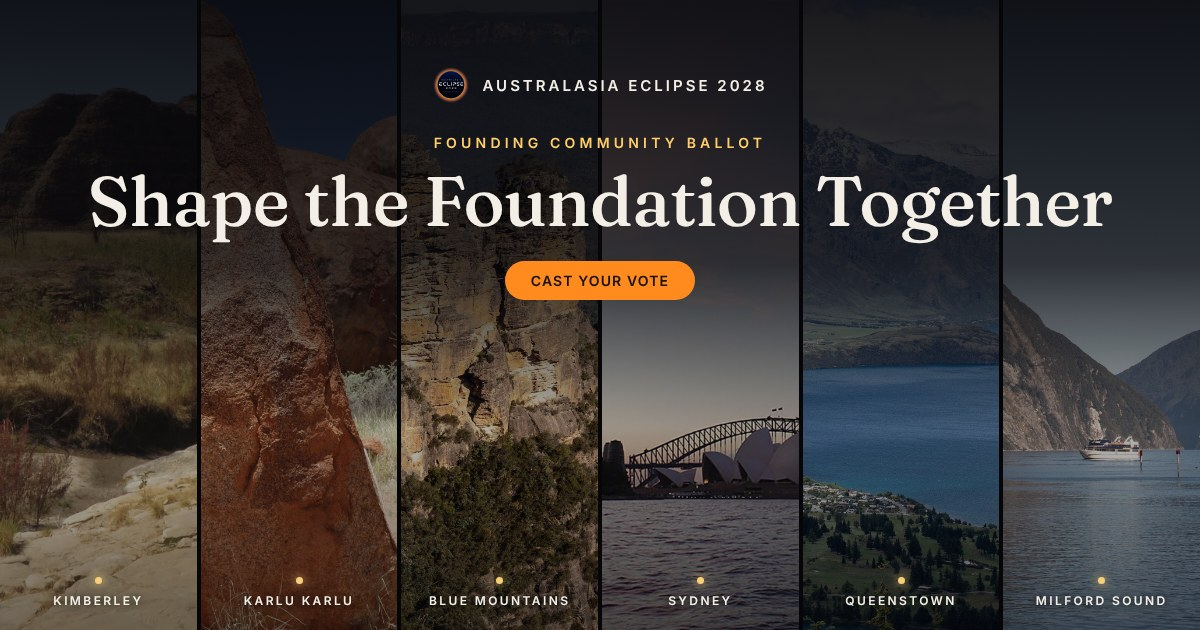
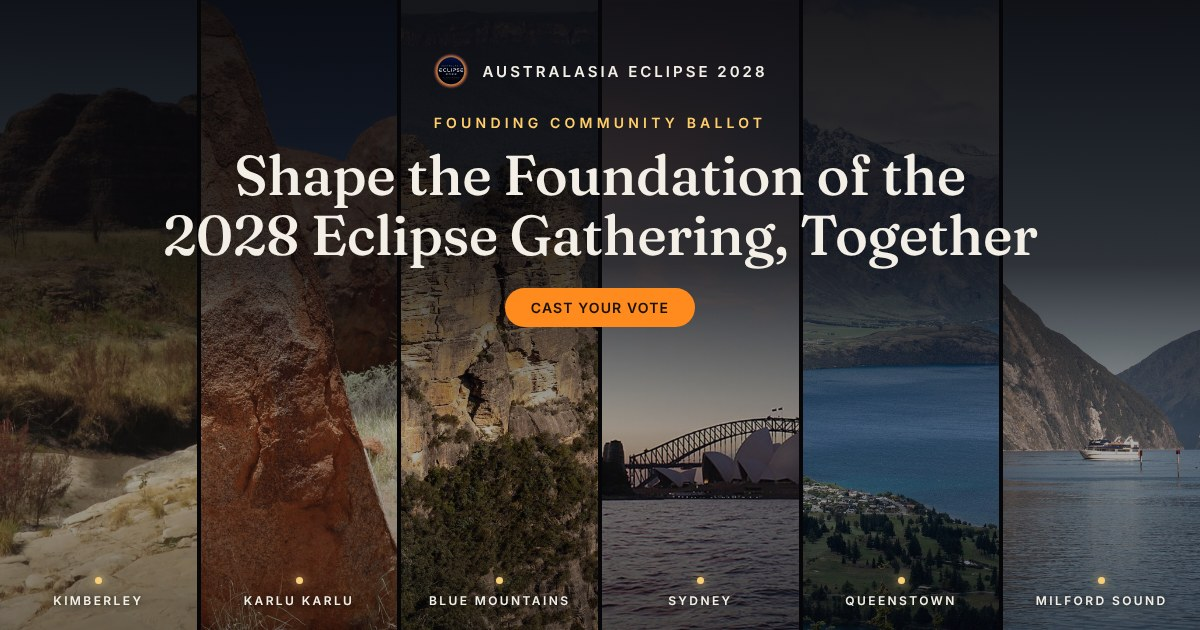
Add files via upload

Changed region(s): [[0.0617, 0.0905, 0.925, 0.5429]]

diff --git a/index.html b/index.html
@@ -3,7 +3,7 @@
 <head>
 <meta charset="utf-8">
 <meta name="viewport" content="width=device-width, initial-scale=1, viewport-fit=cover">
-<title>Shape the Foundation Together | Australasia Eclipse 2028</title>
+<title>Shape the 2028 Eclipse Gathering, Together | Australasia Eclipse</title>
 <meta name="description" content="A ballot for the founding community of Australasia Eclipse 2028: the event's shape, how funding works, who decides and when, and what matters most in a site.">
 <meta name="robots" content="noindex, nofollow">
 <meta name="theme-color" content="#060609">
@@ -11,13 +11,13 @@
 <link rel="apple-touch-icon" href="logo-icon.png">
 <meta property="og:type" content="website">
 <meta property="og:url" content="https://shape.australasiaeclipse.com/">
-<meta property="og:title" content="Shape the Foundation Together | Australasia Eclipse 2028">
+<meta property="og:title" content="Shape the Foundation of the 2028 Eclipse Gathering, Together">
 <meta property="og:description" content="Founding community ballot: help decide the location and how this festival is built.">
 <meta property="og:image" content="https://shape.australasiaeclipse.com/og-image.jpg">
 <meta property="og:image:width" content="1200">
 <meta property="og:image:height" content="630">
 <meta name="twitter:card" content="summary_large_image">
-<meta name="twitter:title" content="Shape the Foundation Together | Australasia Eclipse 2028">
+<meta name="twitter:title" content="Shape the Foundation of the 2028 Eclipse Gathering, Together">
 <meta name="twitter:description" content="Founding community ballot: help decide the location and how this festival is built.">
 <meta name="twitter:image" content="https://shape.australasiaeclipse.com/og-image.jpg">
 <meta property="og:image:alt" content="Shape the Foundation Together: founding community ballot for Australasia Eclipse 2028, over six candidate landscapes from the Kimberley to Milford Sound.">
@@ -76,8 +76,9 @@
   .kicker { font-size: 12px; font-weight: 600; letter-spacing: 0.28em; text-transform: uppercase; color: var(--spinifex); }
   h1 {
     margin-top: 16px; font-family: var(--display); font-weight: 500;
-    font-size: clamp(38px, 7vw, 62px); line-height: 1.08; letter-spacing: -0.005em;
+    font-size: clamp(31px, 5.4vw, 44px); line-height: 1.12; letter-spacing: -0.005em;
   }
+  .lede-2 { margin-top: 12px !important; font-size: 16px !important; color: var(--ink-quiet) !important; }
   .lede { margin-top: 20px; font-size: 18px; color: var(--ink-soft); max-width: 620px; }
   .facts { display: flex; flex-wrap: wrap; gap: 10px; margin-top: 24px; }
   .fact { font-family: var(--mono); font-size: 12px; letter-spacing: 0.08em; padding: 7px 12px; border: 1px solid var(--line); border-radius: 999px; color: var(--ink-soft); }
@@ -172,6 +173,7 @@
     .pl { display: none; }
     .wrap { padding: 0 16px 80px; }
     .intro { padding-top: 44px; }
+    .br { display: none; }
     .lede { font-size: 16.5px; }
     .q { padding: 18px 16px; }
     .two { grid-template-columns: 1fr; gap: 0; }
@@ -192,8 +194,9 @@
 <main class="wrap" id="app">
   <section class="intro">
     <p class="kicker">Founding community ballot</p>
-    <h1>Shape the Foundation Together</h1>
+    <h1>Shape the Foundation of the <br class="br">2028 Eclipse Gathering, Together</h1>
     <p class="lede">Be a part of the founding community who decides location, and how this festival is built.</p>
+    <p class="lede lede-2">Before contributions open, we are settling the foundations together: what shape the gathering takes, how the feasibility study is funded, who makes the final location call and by when, and what matters most in a site. Your answers shape the proposal we bring to the next community call, and you will see where everyone stands as soon as you vote.</p>
     <div class="facts">
       <span class="fact">Closes <b id="closesLabel">Thu, Oct 29, 12 PM CT</b></span>
       <span class="fact"><b>~6</b> minutes</span>
@@ -358,7 +361,7 @@ function render() {
 
 function renderGate() {
   view.innerHTML = '';
-  var p = el('<section class="panel"><h2>Founding community only</h2><p>Enter the community password from the call or WhatsApp group to open the ballot.</p>' +
+  var p = el('<section class="panel"><p style="margin-top:0">Enter the community password from the call or WhatsApp group to open the ballot.</p>' +
     '<label class="field"><span>Password</span><input type="password" id="codeIn" autocomplete="off" autocapitalize="off" spellcheck="false"></label>' +
     '<div class="submit-row"><button class="btn" id="codeBtn">Continue</button></div></section>');
   view.appendChild(p);
